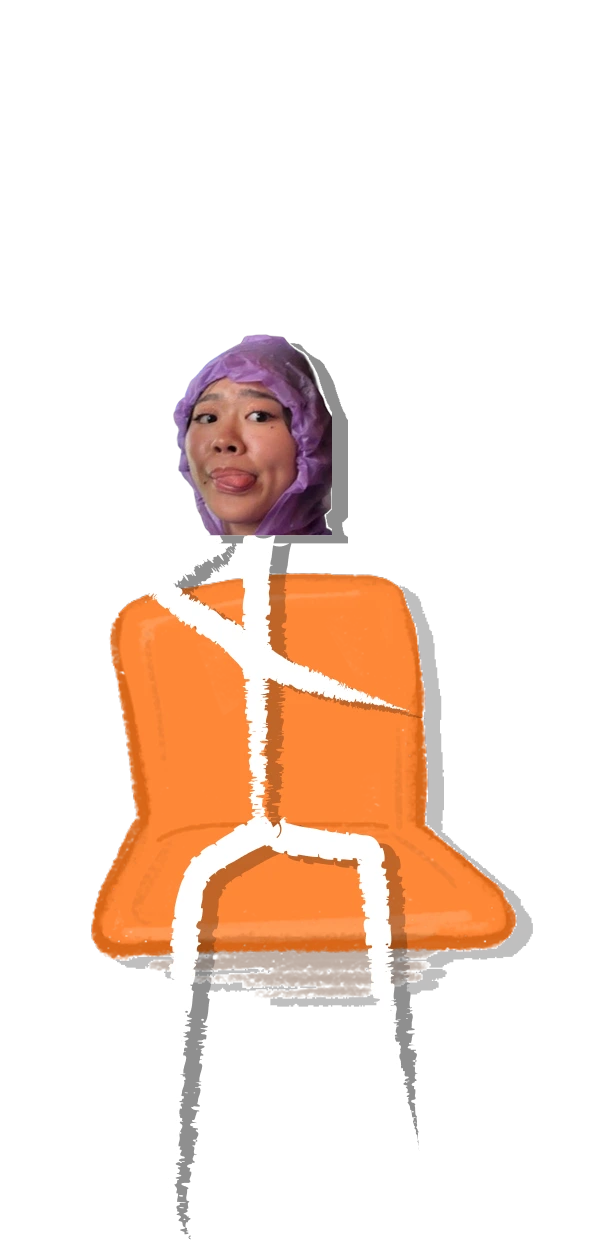
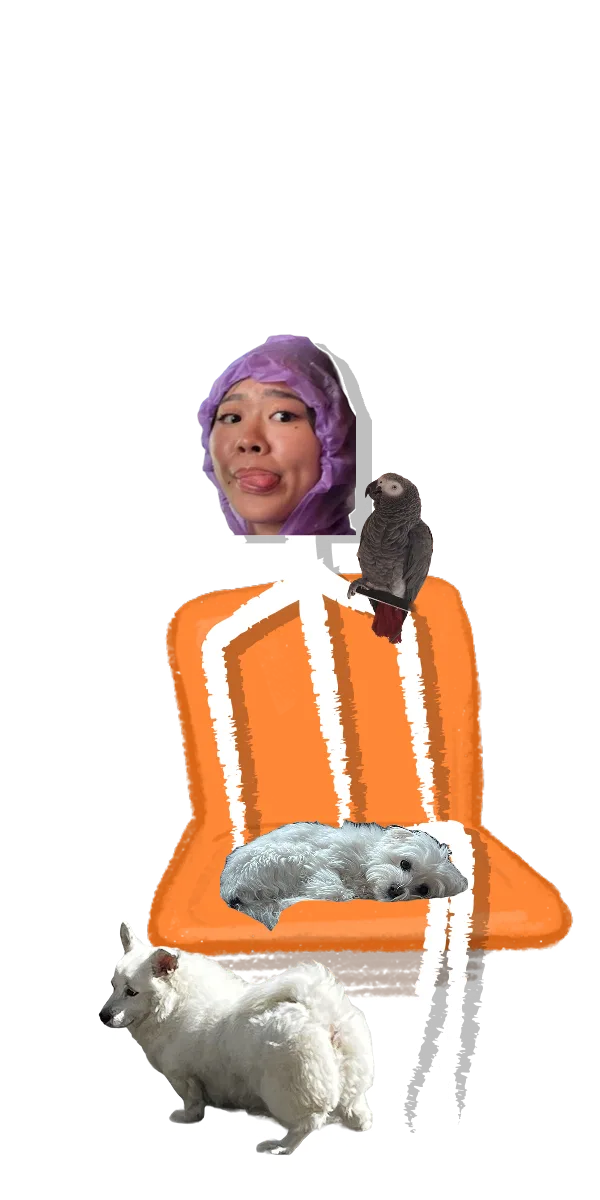
feat: add new people in the meet the team section

Changed region(s): [[0.15, 0.2467, 0.96, 1.0]]

diff --git a/src/components/MeetTheTeam/teamAltitudes.js b/src/components/MeetTheTeam/teamAltitudes.js
@@ -8,7 +8,8 @@ const teamAltitudes = {
   Doaa: -5,
   Ikram: 5,
   Lyland: -5,
-  Janelle: 5
+  Janelle: 5,
+  Rhianna: -15
 }
 
 export const getAltitudeRoom = () => {

diff --git a/src/components/MeetTheTeam/teamSlides.js b/src/components/MeetTheTeam/teamSlides.js
@@ -49,6 +49,7 @@ Legend:
 // Design
   "Amy", // Lead (H)
   "Ashley",
+  "Rhianna", // (H)
 
 // Communication
   "Lyland", // Lead + Design
